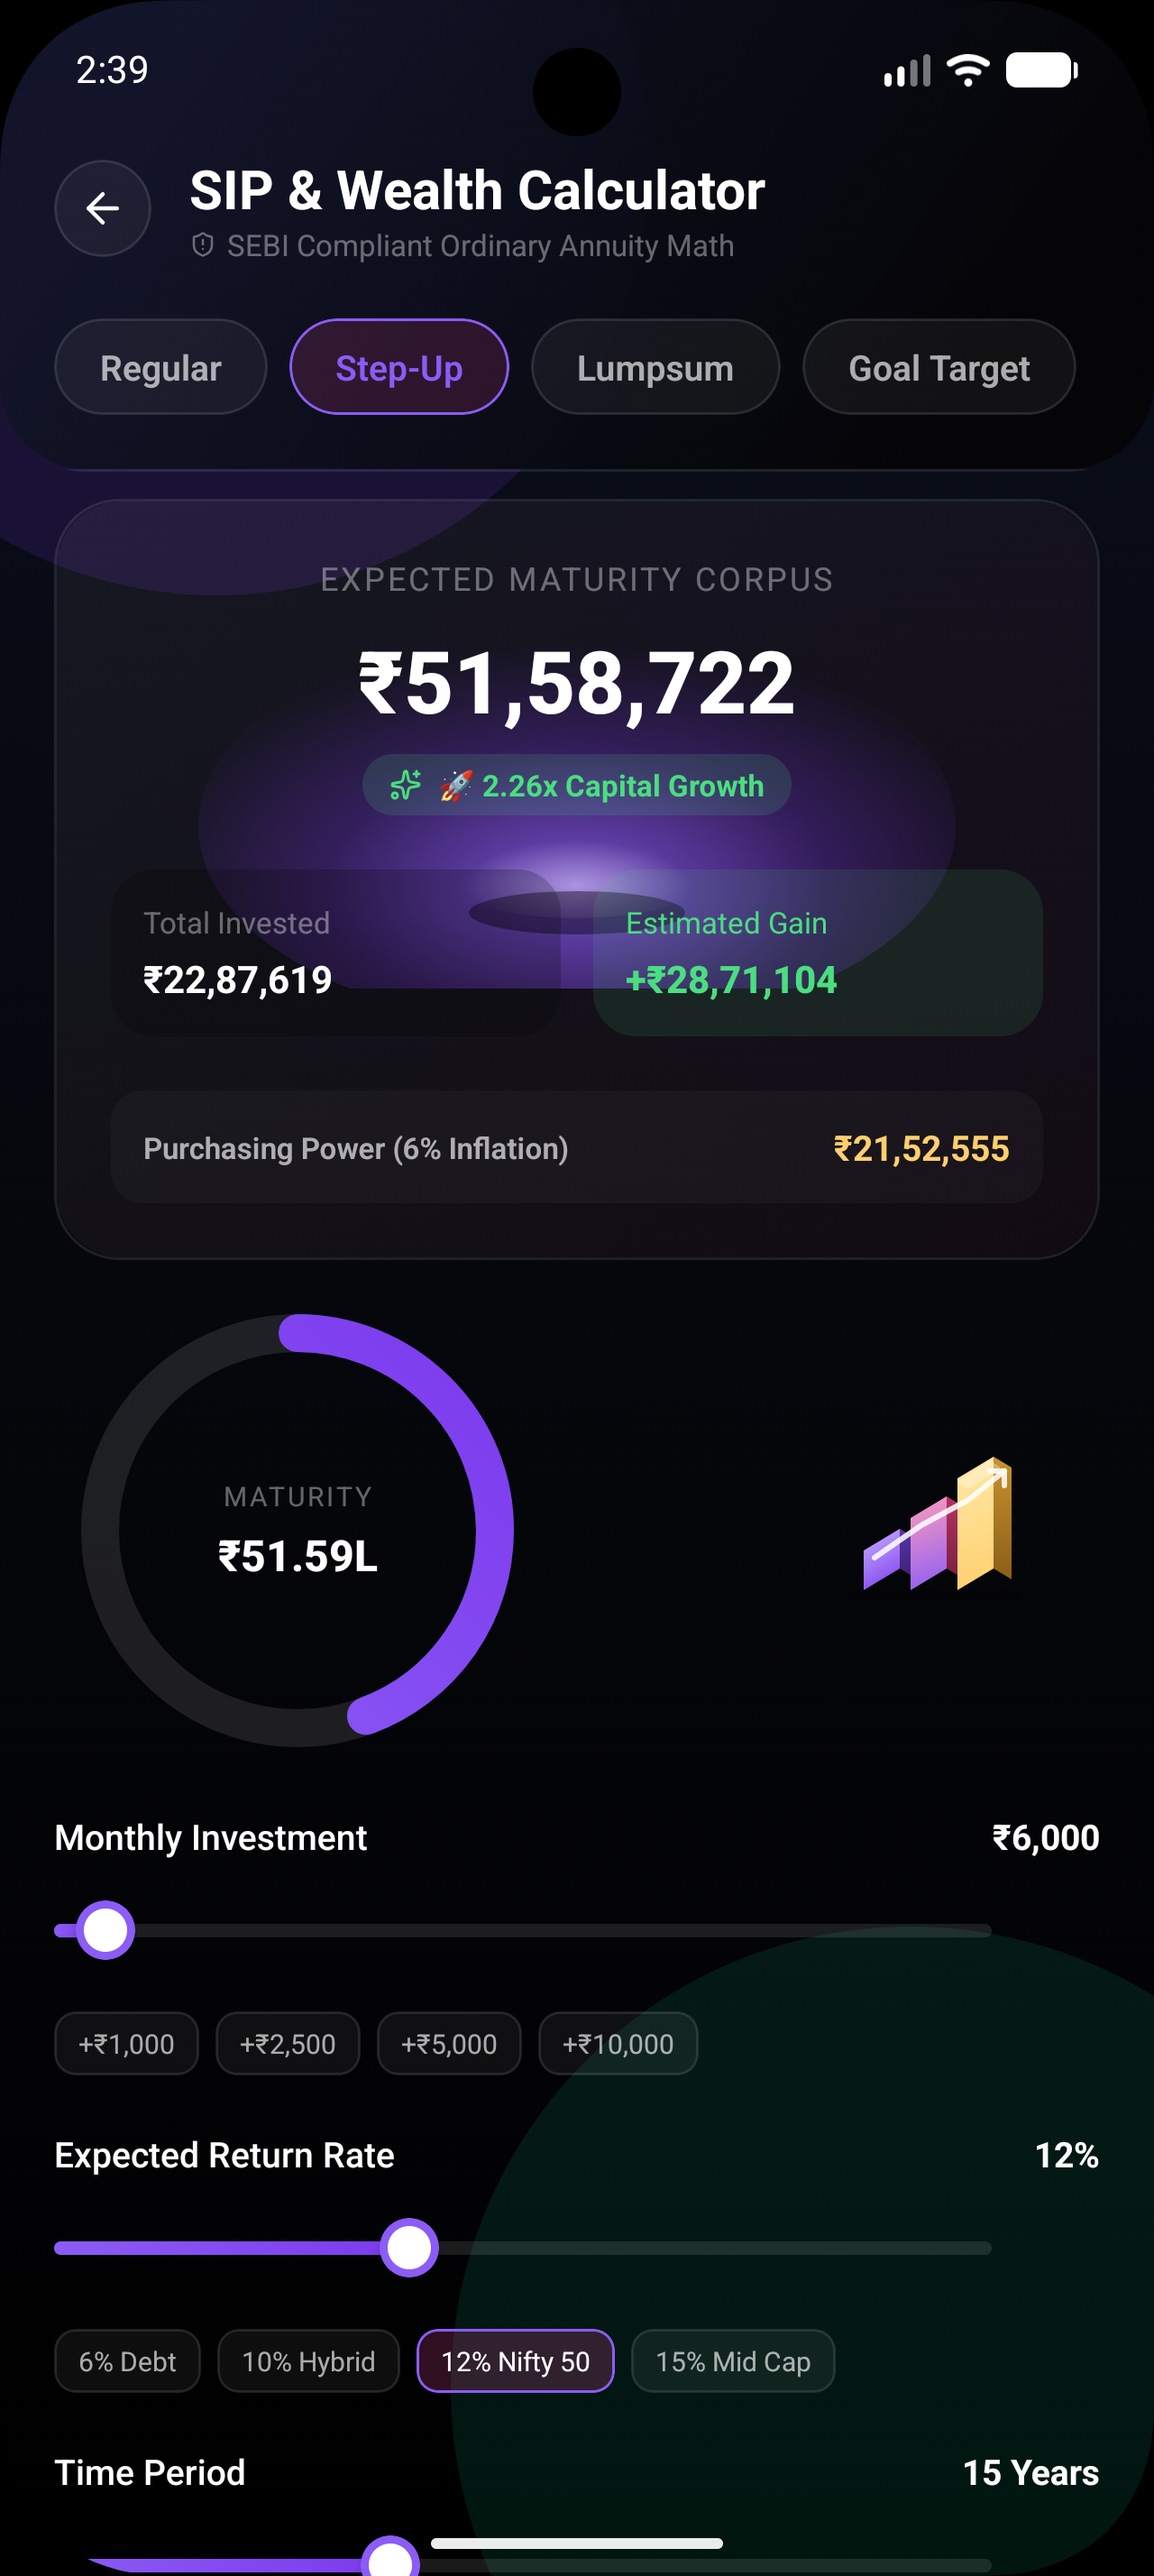
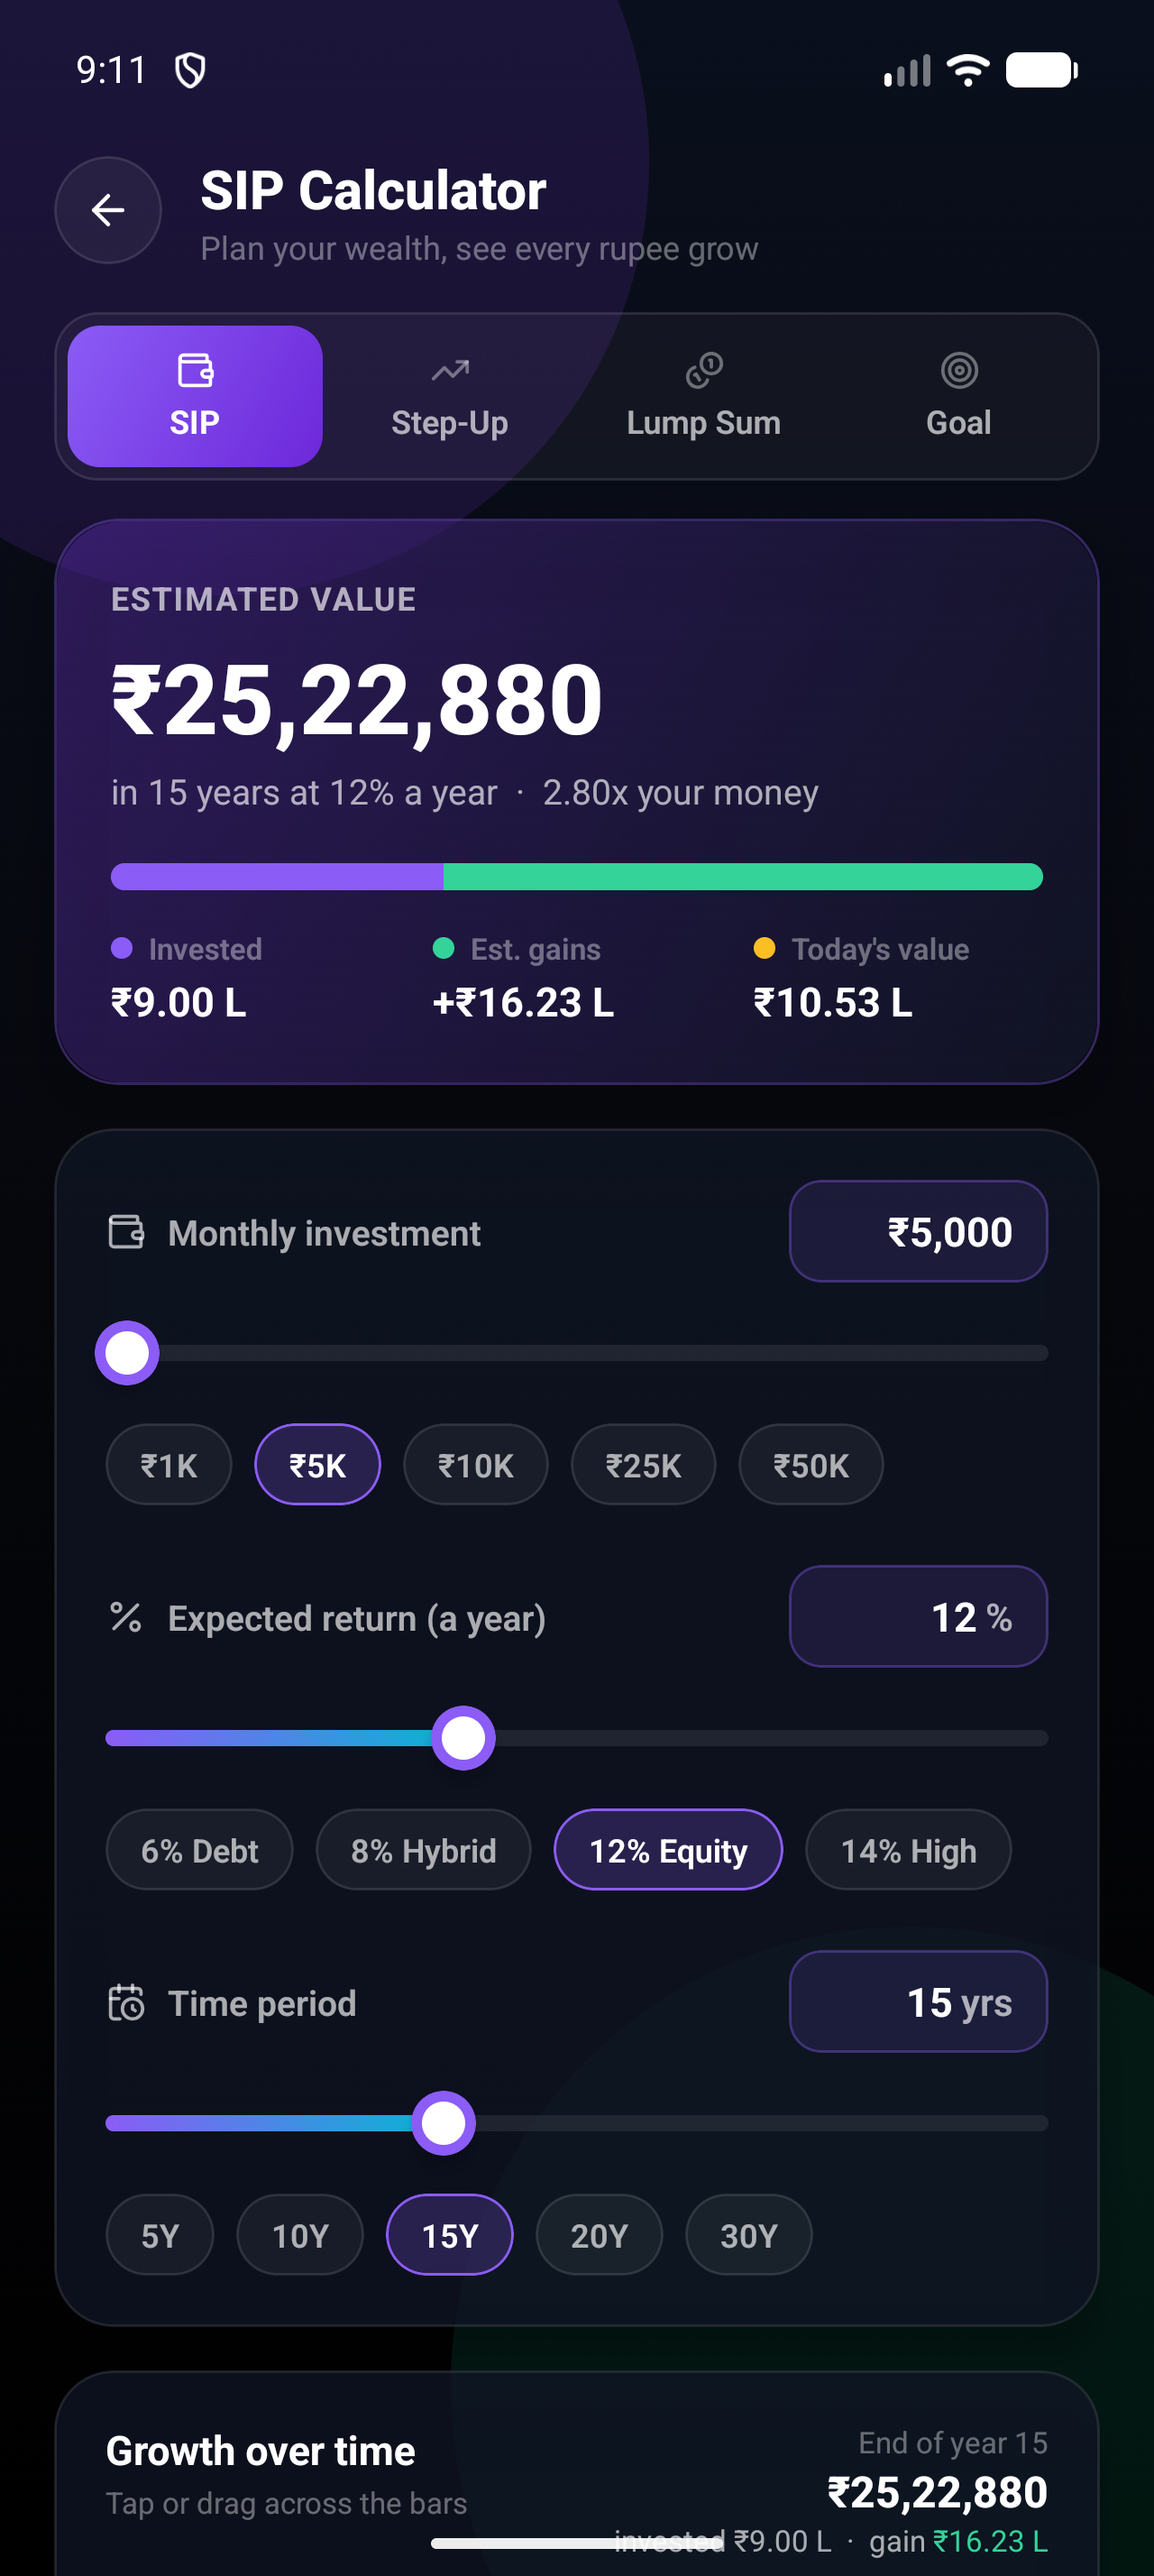
docs(readme): update SIP & Wealth Calculator screenshot to the redesigned screen

diff --git a/README.md b/README.md
@@ -143,7 +143,7 @@ MentraFi operates as an integrated four-tier pipeline where user intent is conve
     <td align="center" width="33.3%">
       <img src="docs/screenshots/08_sip_calculator.png" width="100%" alt="SIP & Wealth Calculator" /><br />
       <b>SIP & Wealth Calculator</b><br />
-      <sub>Ordinary Annuity, Step-Up & Inflation Math</sub>
+      <sub>SIP, Step-Up, Lump Sum & Goal planning with growth chart</sub>
     </td>
     <td align="center" width="33.3%">
       <img src="docs/screenshots/11_explore_funds.png" width="100%" alt="Explore Mutual Funds" /><br />
